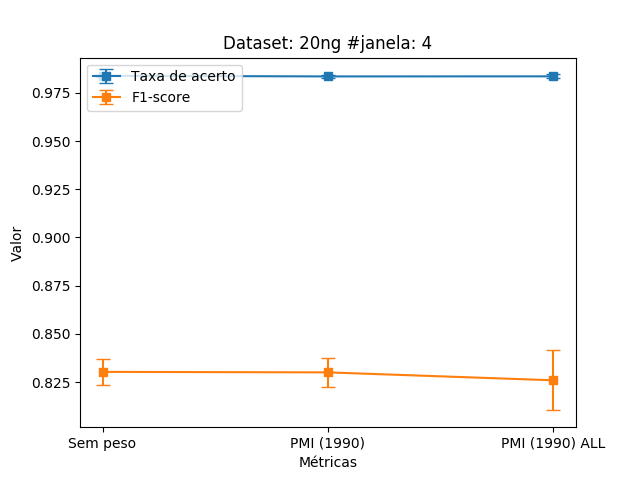
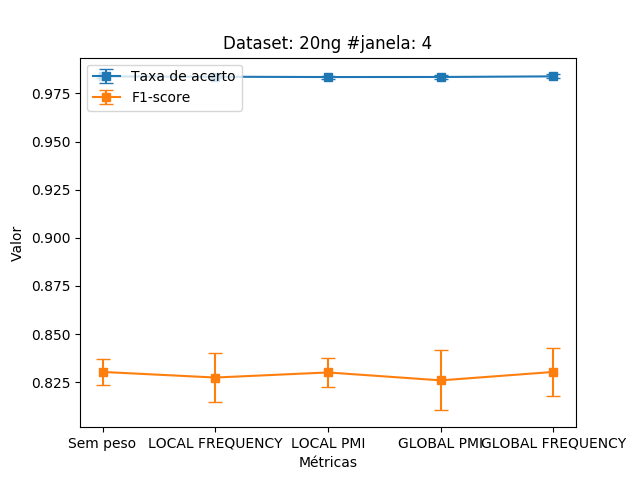
adding plots for freq and freq_all

diff --git a/results_main.py b/results_main.py
@@ -38,9 +38,14 @@ def mean_and_std(all_values, output):
 
 #plot mean and std for each strategy and metric
 def plot_graphic(mean_acc, std_acc, mean_f1, std_f1, dataset, window, output_fig):
-    legend_map = { "no_weight": "Sem peso",
-                "pmi_1990": "PMI (1990)",
-                "pmi_1990_all": "PMI (1990) ALL"}
+    legend_map = {
+        "no_weight": "Sem peso",
+        "pmi_1990": "LOCAL PMI",
+        "pmi_1990_all": "GLOBAL PMI",
+        "freq": "LOCAL FREQUENCY",
+        "freq_all": "GLOBAL FREQUENCY"
+    }
+
     bar = []
     acc_mean = []
     acc_std = []
@@ -86,11 +91,11 @@ def main():
     args = read_args()
 
     directory = args.dataset + "-" + str(args.emb_dim) + "/"
-    strategies = ["no_weight", "pmi_1990", "pmi_1990_all"]
+    strategies = ["no_weight", "pmi_1990", "pmi_1990_all", "freq", "freq_all"]
     default_output = "plots/" + directory + args.dataset + "_" + str(args.window) + ".txt"
     acc_output = open(default_output, "w")
     f1_output = open("plots/" + directory + "f1_" + args.dataset + "_" + str(args.window) + ".txt", "w")
-    output_fig = default_output + ".png" 
+    output_fig = default_output + ".png"
     all_acc = {}
     all_f1 = {}
     #read results for each strategy
@@ -103,7 +108,7 @@ def main():
     statistical_tests(all_acc, all_f1, args.window, strategies)
     mean_acc, std_acc = mean_and_std(all_acc, acc_output)
     mean_f1, std_f1 = mean_and_std(all_f1, f1_output)
-    
+
     plot_graphic(mean_acc, std_acc, mean_f1, std_f1, args.dataset, args.window, output_fig)
 
 if __name__ == "__main__":
